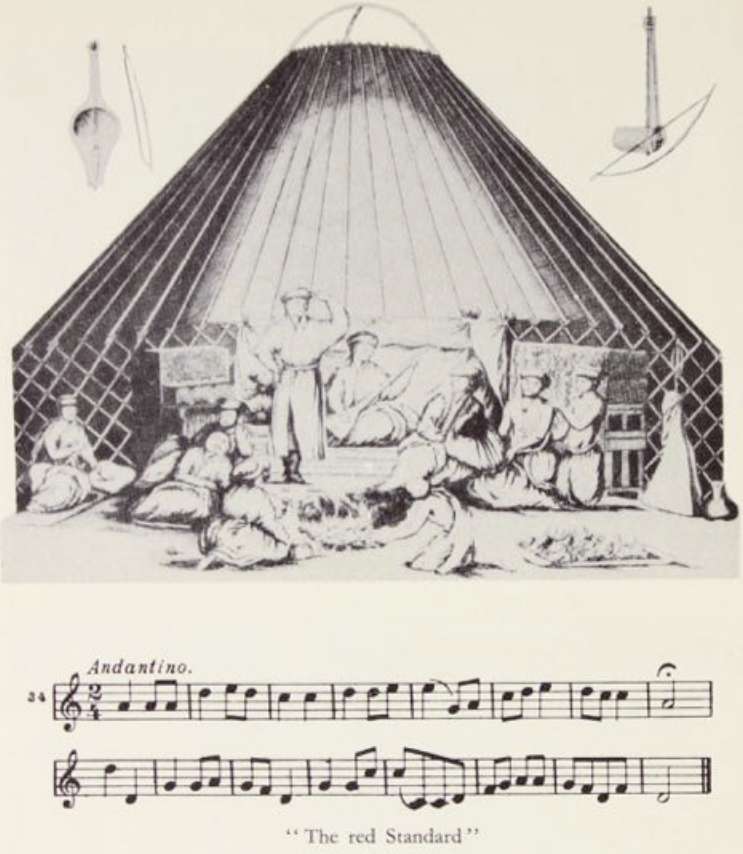
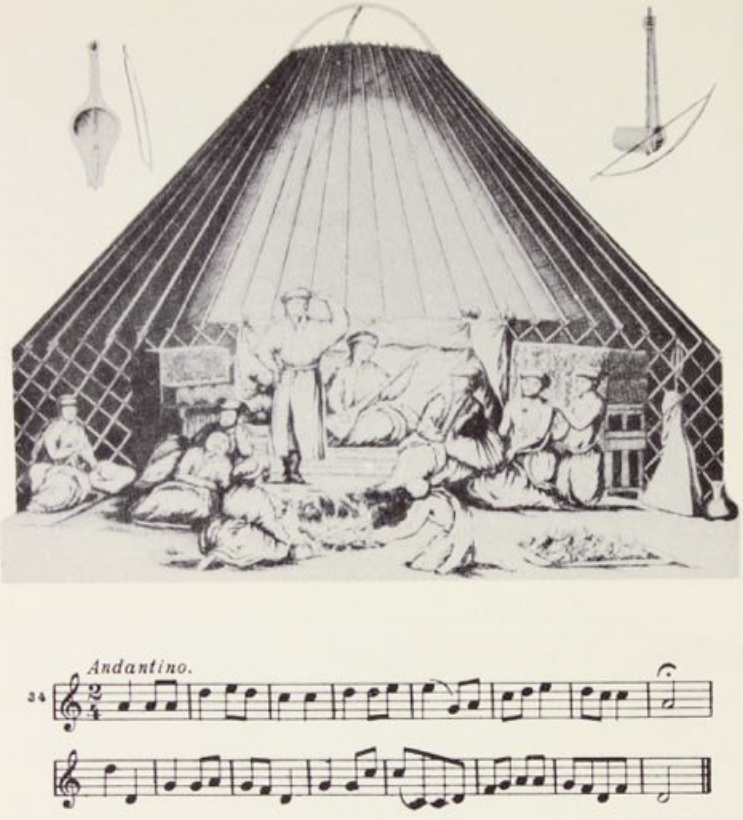
update 23.02.2026

diff --git a/content/notes/haslund-zajagan-photos/index.md b/content/notes/haslund-zajagan-photos/index.md
@@ -1108,7 +1108,7 @@ RU: "Консул Арселан"
 
 ### Красный стандарт
 
-![haslund-zajagan-en-redstandard.png](haslund-zajagan-en-redstandard.png "\"Arselan Consul\"")
+![haslund-zajagan-en-redstandard.png](haslund-zajagan-en-redstandard.png "\"The red Standard\"")
 
 DA: изображения нот нет в датскоязычном издании 1947 г.
 
